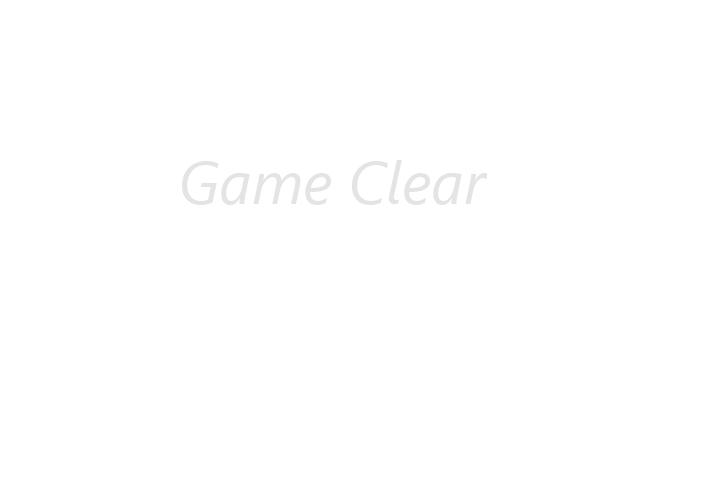
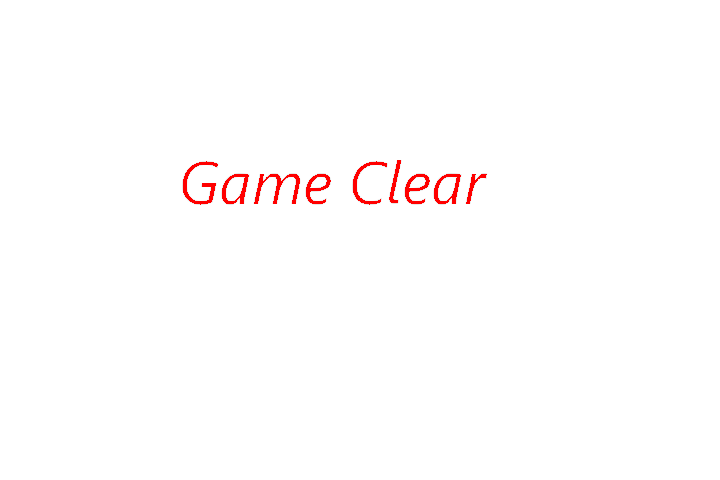
ボスを倒したらタイトルに戻るように・UI表示

diff --git a/DirectXGame/Application/Scene/GameScene.cpp b/DirectXGame/Application/Scene/GameScene.cpp
@@ -1,5 +1,6 @@
 #include "GameScene.h"
 #include "Engine/Scene/SceneManager.h"
+#include "Engine/2D/TextureManager.h"
 
 #include <imgui.h>
 
@@ -77,8 +78,20 @@ void GameScene::Update()
 		bossEnemy_->Update();
 		if (bossEnemy_->IsDead()) {
 			bossEnemy_.reset();
+			clearText_.isClear = true;
+			clearText_.transitionTimer.Start(300.0f);
 		}
 	}
+
+	if (clearText_.isClear) {
+		clearText_.transitionTimer.Update();
+
+		if (clearText_.transitionTimer.IsEnd()) {
+			sceneManager_->ChangeScene("TITLE");
+		}
+
+	}
+
 	terrainManager_->Update();
 
 	// 衝突処理
@@ -131,6 +144,9 @@ void GameScene::Draw()
 	Sprite::PreDraw(commandList);
 
 	player_->UISpriteDraw();
+	if (clearText_.isClear) {
+		clearText_.clearText->Draw();
+	}
 
 	Sprite::PostDraw();
 
@@ -230,6 +246,9 @@ void GameScene::LoadModel()
 void GameScene::LoadTexture()
 {
 	// テクスチャのロード
+	clearText_.isClear = false;
+	uint32_t clearTexture = TextureManager::GetInstance()->Load("Resources/UI/ClearText.png");
+	clearText_.clearText.reset(Sprite::Create(clearTexture, { 1280.0f / 2.0f,720.0f / 2.0f }, { 0.5f,0.5f }));
 
 }
 

diff --git a/DirectXGame/Application/Scene/TitleScene.cpp b/DirectXGame/Application/Scene/TitleScene.cpp
@@ -15,6 +15,9 @@ void TitleScene::Initialize()
 
 	AddSprite(Vector2(1280.0f / 2.0f, 720.0f / 2.0f), TextureManager::GetInstance()->Load("Resources/UI/BackGround.png"));
 	AddSprite(Vector2(1280.0f / 2.0f, 720.0f / 2.0f), TextureManager::GetInstance()->Load("Resources/UI/Button.png"));
+
+	size_ = uiSprites_[1]->GetSize();
+	uiSprites_[1]->SetSize(size_ * 2);
 }
 
 void TitleScene::Update()

diff --git a/DirectXGame/Application/Scene/GameScene.h b/DirectXGame/Application/Scene/GameScene.h
@@ -70,7 +70,14 @@ private: // アプリ
 
 private: // リソース
 	std::unique_ptr<Sprite> reticleSprite_;
-	std::unique_ptr<Sprite> clearText_;
+
+	struct GameClear {
+		FrameTimer transitionTimer;
+		std::unique_ptr<Sprite> clearText;
+		bool isClear;
+	};
+
+	GameClear clearText_;
 
 private: // システム関係
 	// カメラ君

diff --git a/DirectXGame/Application/Scene/TitleScene.h b/DirectXGame/Application/Scene/TitleScene.h
@@ -55,6 +55,7 @@ private: // システム関係
 	std::unique_ptr<Skybox> skybox_;
 
 	std::vector<std::unique_ptr<Sprite>> uiSprites_;
+	Vector2 size_ = {};
 
 	// ライト君
 	std::unique_ptr<DirectionalLight> directionalLight_;
